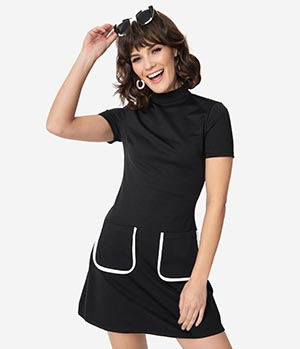
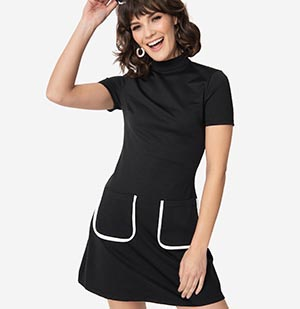
resize images

diff --git a/products.html b/products.html
@@ -82,6 +82,7 @@
                                                 <th scope="col">Image</th>
                                                 <th scope="col">#</th>
                                                 <th scope="col">Title</th>
+                                                <th scope="col">Category</th>
                                                 <th scope="col">Description</th>
                                                 <th scope="col">Price</th>
                                                 <th scope="col">Discounted price</th>
@@ -95,6 +96,7 @@
                                                 <td class="product-img-value"><img src="./images/dresses/dresses-1.jpg" class="products-img img-fluid rounded-circle" alt=""></td>
                                                 <td class="product-id-value">1111</td>
                                                 <td class="product-title-value">Vintage dress</td>
+                                                <td class="product-category-value">Dresses</td>
                                                 <td class="product-description-value">Lorem ipsum dolor sit amet consectetur adipisicing elit. Illo quos sed maiores obcaecati aut nesciunt, praesentium consequuntur suscipit fuga aperiam, recusandae totam corrupti voluptatum impedit. Dicta
                                                     mollitia rerum illo veniam!</td>
                                                 <td class="product-price-value ">25$</td>
@@ -111,6 +113,7 @@
                                                 <th scope="col" class="product-img-value"><img src="./images/dresses/dresses-2.jpg" class="products-img img-fluid rounded-circle" alt=""></th>
                                                 <td class="product-id-value">1222</td>
                                                 <td class="product-title-value">Cool dress</td>
+                                                <td class="product-category-value">Dresses</td>
                                                 <td class="product-description-value">Dicta mollitia rerum illo veniam!</td>
                                                 <td class="product-price-value">25$</td>
                                                 <td class="product-discount-price-value">20$</td>
@@ -126,6 +129,7 @@
                                                 <th scope="col" class="product-img-value"><img src="./images/dresses/dresses-3.jpg" class="products-img img-fluid rounded-circle" alt=""></th>
                                                 <td class="product-id-value">1333</td>
                                                 <td class="product-title-value">Pretty dress</td>
+                                                <td class="product-category-value">Dresses</td>
                                                 <td class="product-description-value">Lorem ipsum dolor sit amet consectetur adipisicing elit. Illo quos sed maiores obcaecati aut nesciunt, praesentium consequuntur suscipit fuga aperiam, recusandae totam corrupti voluptatum impedit.</td>
                                                 <td class="product-price-value">25$</td>
                                                 <td class="product-discount-price-value">20$</td>
@@ -141,6 +145,7 @@
                                                 <th scope="col" class="product-img-value"><img src="./images/dresses/dresses-4.jpg" class="products-img img-fluid rounded-circle" alt=""></th>
                                                 <td class="product-id-value">1444</td>
                                                 <td class="product-title-value">Nice dress</td>
+                                                <td class="product-category-value">Dresses</td>
                                                 <td class="product-description-value"> Illo quos sed maiores obcaecati aut nesciunt, praesentium consequuntur suscipit fuga aperiam, recusandae totam corrupti voluptatum impedit. Dicta mollitia rerum illo veniam!</td>
                                                 <td class="product-price-value">25$</td>
                                                 <td class="product-discount-price-value">20$</td>
@@ -156,6 +161,7 @@
                                                 <th scope="col" class="product-img-value"><img src="./images/accessories/accessories-1.jpg" class="products-img img-fluid rounded-circle" alt=""></th>
                                                 <td class="product-id-value">0000</td>
                                                 <td class="product-title-value">Nice hat</td>
+                                                <td class="product-category-value">Accessories</td>
                                                 <td class="product-description-value">Illo quos sed maiores obcaecati aut nesciunt, praesentium consequuntur suscipit fuga aperiam, recusandae totam corrupti voluptatum impedit. Dicta mollitia rerum illo veniam!</td>
                                                 <td class="product-price-value">25$</td>
                                                 <td class="product-discount-price-value">20$</td>
@@ -171,6 +177,7 @@
                                                 <th scope="col" class="product-img-value"><img src="./images/accessories/accessories-2.jpg" class="products-img img-fluid rounded-circle" alt=""></th>
                                                 <td class="product-id-value">0111</td>
                                                 <td class="product-title-value">Cool bag</td>
+                                                <td class="product-category-value">Accessories</td>
                                                 <td class="product-description-value">Illo quos sed maiores obcaecati aut nesciunt, praesentium consequuntur suscipit fuga aperiam, recusandae totam corrupti voluptatum impedit. Dicta mollitia rerum illo veniam!</td>
                                                 <td class="product-price-value">25$</td>
                                                 <td class="product-discount-price-value">20$</td>
@@ -186,6 +193,7 @@
                                                 <th scope="col" class="product-img-value"><img src="./images/accessories/accessories-3.jpg" class="products-img img-fluid rounded-circle" alt=""></th>
                                                 <td class="product-id-value">0222</td>
                                                 <td class="product-title-value">Watermelon</td>
+                                                <td class="product-category-value">Accessories</td>
                                                 <td class="product-description-value">Illo quos sed maiores obcaecati aut nesciunt, praesentium consequuntur suscipit fuga aperiam, recusandae totam corrupti voluptatum impedit. Dicta mollitia rerum illo veniam!</td>
                                                 <td class="product-price-value">25$</td>
                                                 <td class="product-discount-price-value">20$</td>
@@ -201,6 +209,7 @@
                                                 <th scope="col" class="product-img-value"><img src="./images/accessories/accessories-4.jpg" class="products-img img-fluid rounded-circle" alt=""></th>
                                                 <td class="product-id-value">0333</td>
                                                 <td class="product-title-value">Necklace</td>
+                                                <td class="product-category-value">Accessories</td>
                                                 <td class="product-description-value">Illo quos sed maiores obcaecati aut nesciunt, praesentium consequuntur suscipit fuga aperiam, recusandae totam corrupti voluptatum impedit. Dicta mollitia rerum illo veniam!</td>
                                                 <td class="product-price-value">25$</td>
                                                 <td class="product-discount-price-value">20$</td>
@@ -216,6 +225,7 @@
                                                 <th scope="col" class="product-img-value"><img src="./images/bottoms/bottoms-1.jpg" class="products-img img-fluid rounded-circle" alt=""></th>
                                                 <td class="product-id-value">2111</td>
                                                 <td class="product-title-value">Skirt</td>
+                                                <td class="product-category-value">Bottoms</td>
                                                 <td class="product-description-value">Illo quos sed maiores obcaecati aut nesciunt, praesentium consequuntur suscipit fuga aperiam, recusandae totam corrupti voluptatum impedit. Dicta mollitia rerum illo veniam!</td>
                                                 <td class="product-price-value">25$</td>
                                                 <td class="product-discount-price-value">20$</td>
@@ -231,6 +241,7 @@
                                                 <th scope="col" class="product-img-value"><img src="./images/bottoms/bottoms-2.jpg" class="products-img img-fluid rounded-circle" alt=""></th>
                                                 <td class="product-id-value">2222</td>
                                                 <td class="product-title-value">Shorts</td>
+                                                <td class="product-category-value">Bottoms</td>
                                                 <td class="product-description-value">Illo quos sed maiores obcaecati aut nesciunt, praesentium consequuntur suscipit fuga aperiam, recusandae totam corrupti voluptatum impedit. Dicta mollitia rerum illo veniam!</td>
                                                 <td class="product-price-value">25$</td>
                                                 <td class="product-discount-price-value">20$</td>
@@ -246,6 +257,7 @@
                                                 <th scope="col" class="product-img-value"><img src="./images/bottoms/bottoms-3.jpg" class="products-img img-fluid rounded-circle" alt=""></th>
                                                 <td class="product-id-value">2333</td>
                                                 <td class="product-title-value">Cool pants</td>
+                                                <td class="product-category-value">Bottoms</td>
                                                 <td class="product-description-value">Illo quos sed maiores obcaecati aut nesciunt, praesentium consequuntur suscipit fuga aperiam, recusandae totam corrupti voluptatum impedit. Dicta mollitia rerum illo veniam!</td>
                                                 <td class="product-price-value">25$</td>
                                                 <td class="product-discount-price-value">20$</td>
@@ -261,6 +273,7 @@
                                                 <th scope="col" class="product-img-value"><img src="./images/bottoms/bottoms-4.jpg" class="products-img img-fluid rounded-circle" alt=""></th>
                                                 <td class="product-id-value">2444</td>
                                                 <td class="product-title-value">Short shorts</td>
+                                                <td class="product-category-value">Bottoms</td>
                                                 <td class="product-description-value">Illo quos sed maiores obcaecati aut nesciunt, praesentium consequuntur suscipit fuga aperiam, recusandae totam corrupti voluptatum impedit. Dicta mollitia rerum illo veniam!</td>
                                                 <td class="product-price-value">25$</td>
                                                 <td class="product-discount-price-value">20$</td>
@@ -276,6 +289,7 @@
                                                 <th scope="col" class="product-img-value"><img src="./images/shoes/shoes-1.jpg" class="products-img img-fluid rounded-circle" alt=""></th>
                                                 <td class="product-id-value">3111</td>
                                                 <td class="product-title-value">Pretty shoes</td>
+                                                <td class="product-category-value">Shoes</td>
                                                 <td class="product-description-value">Illo quos sed maiores obcaecati aut nesciunt, praesentium consequuntur suscipit fuga aperiam, recusandae totam corrupti voluptatum impedit. Dicta mollitia rerum illo veniam!</td>
                                                 <td class="product-price-value">25$</td>
                                                 <td class="product-discount-price-value">20$</td>
@@ -290,6 +304,7 @@
                                                 <th scope="col" class="product-img-value"><img src="./images/shoes/shoes-2.jpg" class="products-img img-fluid rounded-circle" alt=""></th>
                                                 <td class="product-id-value">3222</td>
                                                 <td class="product-title-value">Very shoes</td>
+                                                <td class="product-category-value">Shoes</td>
                                                 <td class="product-description-value">Illo quos sed maiores obcaecati aut nesciunt, praesentium consequuntur suscipit fuga aperiam, recusandae totam corrupti voluptatum impedit. Dicta mollitia rerum illo veniam!</td>
                                                 <td class="product-price-value">25$</td>
                                                 <td class="product-discount-price-value">20$</td>
@@ -304,6 +319,7 @@
                                                 <th scope="col" class="product-img-value"><img src="./images/shoes/shoes-3.jpg" class="products-img img-fluid rounded-circle" alt=""></th>
                                                 <td class="product-id-value">3333</td>
                                                 <td class="product-title-value">Pretty shoes</td>
+                                                <td class="product-category-value">Shoes</td>
                                                 <td class="product-description-value">Illo quos sed maiores obcaecati aut nesciunt, praesentium consequuntur suscipit fuga aperiam, recusandae totam corrupti voluptatum impedit. Dicta mollitia rerum illo veniam!</td>
                                                 <td class="product-price-value">25$</td>
                                                 <td class="product-discount-price-value">20$</td>
@@ -317,7 +333,23 @@
                                             <tr class="text-center">
                                                 <th scope="col" class="product-img-value"><img src="./images/shoes/shoes-4.jpg" class="products-img img-fluid rounded-circle" alt=""></th>
                                                 <td class="product-id-value">2444</td>
-                                                <td class="product-title-value">Pretty shoes</td>
+                                                <td class="product-title-value">Awesome shoes</td>
+                                                <td class="product-category-value">Shoes</td>
+                                                <td class="product-description-value">Illo quos sed maiores obcaecati aut nesciunt, praesentium consequuntur suscipit fuga aperiam, recusandae totam corrupti voluptatum impedit. Dicta mollitia rerum illo veniam!</td>
+                                                <td class="product-price-value">25$</td>
+                                                <td class="product-discount-price-value">20$</td>
+                                                <td>
+                                                    <div class="d-grid gap-2 d-md-flex justify-content-md-end">
+                                                        <button type="button" class="btn btn-dark edit-product-btn">Edit</button>
+                                                        <button type="button" class="btn btn-secondary remove-button">Remove</button>
+                                                    </div>
+                                                </td>
+                                            </tr>
+                                            <tr class="text-center">
+                                                <th scope="col" class="product-img-value"><img src="./images/shoes/shoes-5.jpg" class="products-img img-fluid rounded-circle" alt=""></th>
+                                                <td class="product-id-value">2555</td>
+                                                <td class="product-title-value">Other shoes</td>
+                                                <td class="product-category-value">Shoes</td>
                                                 <td class="product-description-value">Illo quos sed maiores obcaecati aut nesciunt, praesentium consequuntur suscipit fuga aperiam, recusandae totam corrupti voluptatum impedit. Dicta mollitia rerum illo veniam!</td>
                                                 <td class="product-price-value">25$</td>
                                                 <td class="product-discount-price-value">20$</td>

diff --git a/js/tables.js b/js/tables.js
@@ -18,14 +18,15 @@ $('#products-table').dataTable({
         "search": "Search products: "
     },
     "lengthMenu": [
-        [4, -1],
-        [4, "All"]
+        [5, -1],
+        [5, "All"]
     ],
     "order": [
         [1, 'asc']
     ],
     "columns": [
         { "orderable": false },
+        null,
         null,
         null,
         null,
